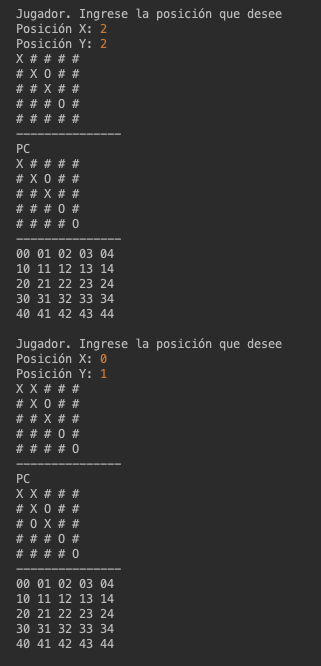
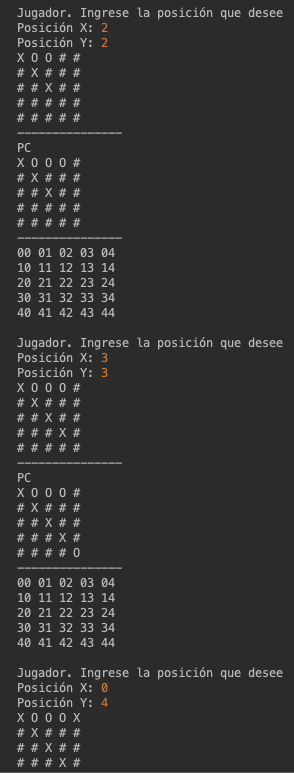
correccion

diff --git a/e1/index.html b/e1/index.html
@@ -12,7 +12,9 @@
     <div>
         <p>package ds2.e1;</p>
         
-        <p>import java.util.Scanner;</p>
+        <p>import java.util.Scanner;<br />
+            import java.util.regex.Matcher;<br />
+            import java.util.regex.Pattern;</p>
         
         <p>public class Gato5x5Metodos {</p>
         
@@ -154,36 +156,238 @@
             &nbsp; &nbsp; &nbsp; &nbsp; &nbsp; &nbsp; &nbsp; &nbsp; &nbsp; &nbsp; entero = true; // RETORNAR TRUE<br />
             &nbsp; &nbsp; &nbsp; &nbsp; &nbsp; &nbsp; &nbsp; &nbsp; }<br />
             &nbsp; &nbsp; &nbsp; &nbsp; &nbsp; &nbsp; } while (entero == false); // REPETIR EL CICLO SI LOS NUMEROS ESTAN FUERA
-            DE RANGO<br />
-            &nbsp; &nbsp; &nbsp; &nbsp; &nbsp; &nbsp; do {<br />
-            &nbsp; &nbsp; &nbsp; &nbsp; &nbsp; &nbsp; &nbsp; &nbsp; if (!&quot;#&quot;.equals(gato[x][y])) { // VERIFICAR SI LA
-            POSICION YA ESTA OCUPADA<br />
-            &nbsp; &nbsp; &nbsp; &nbsp; &nbsp; &nbsp; &nbsp; &nbsp; &nbsp; &nbsp; System.out.println(&quot;Posici&oacute;n
+            DE RANGO</p>
+        
+        <p>&nbsp; &nbsp; &nbsp; &nbsp; &nbsp; &nbsp; if (!&quot;#&quot;.equals(gato[x][y])) { // VERIFICAR SI LA POSICION YA
+            ESTA OCUPADA<br />
+            &nbsp; &nbsp; &nbsp; &nbsp; &nbsp; &nbsp; &nbsp; &nbsp; System.out.println(&quot;Posici&oacute;n
             inv&aacute;lida&quot;); // MENSAJE DE ERROR SI ESTA OCUPADA<br />
-            &nbsp; &nbsp; &nbsp; &nbsp; &nbsp; &nbsp; &nbsp; &nbsp; } else { // SI NO ESTA OCUPADA<br />
-            &nbsp; &nbsp; &nbsp; &nbsp; &nbsp; &nbsp; &nbsp; &nbsp; &nbsp; &nbsp; desocupado = true; // RETORNAR TRUE<br />
-            &nbsp; &nbsp; &nbsp; &nbsp; &nbsp; &nbsp; &nbsp; &nbsp; }<br />
-            &nbsp; &nbsp; &nbsp; &nbsp; &nbsp; &nbsp; } while (desocupado == false); // REPETIR EL CICLO MIENTRAS LA POSICION
-            ESTE OCUPADA<br />
+            &nbsp; &nbsp; &nbsp; &nbsp; &nbsp; &nbsp; &nbsp; &nbsp; desocupado = false;<br />
+            &nbsp; &nbsp; &nbsp; &nbsp; &nbsp; &nbsp; } else if (&quot;#&quot;.equals(gato[x][y])) { // SI NO ESTA OCUPADA<br />
+            &nbsp; &nbsp; &nbsp; &nbsp; &nbsp; &nbsp; &nbsp; &nbsp; desocupado = true; // RETORNAR TRUE<br />
+            &nbsp; &nbsp; &nbsp; &nbsp; &nbsp; &nbsp; }<br />
             &nbsp; &nbsp; &nbsp; &nbsp; } while (desocupado == false || entero == false); // REPETIR EL CICLO MIENTRAS ESTA
             OCUPADA O MIENTRAS LOS NUMEROS SEAN INVALIDOS<br />
             &nbsp; &nbsp; &nbsp; &nbsp; gato[x][y] = &quot;X&quot;; // ASIGNAR X A LA POSICION<br />
             &nbsp; &nbsp; }</p>
         
         <p>&nbsp; &nbsp; public static void pc(String gato[][]) {<br />
-            &nbsp; &nbsp; &nbsp; &nbsp; int x, y; // DECLARAR POSICIONES X Y<br />
-            &nbsp; &nbsp; &nbsp; &nbsp; do {<br />
-            &nbsp; &nbsp; &nbsp; &nbsp; &nbsp; &nbsp; x = (int) (Math.random() * 5); // ASIGNAR UN NUMERO ALEATORIO ENTERO 0-5
-            AL RENGLON<br />
-            &nbsp; &nbsp; &nbsp; &nbsp; &nbsp; &nbsp; y = (int) (Math.random() * 5); // ASIGNAR UN NUMERO ALEATORIO ENTERO 0-5 A
-            LA COLUMNA<br />
-            &nbsp; &nbsp; &nbsp; &nbsp; } while (!&quot;#&quot;.equals(gato[x][y])); // REPETIR EL CICLO MIENTRAS LA CASILLA
-            ESTE OCUPADA<br />
-            &nbsp; &nbsp; &nbsp; &nbsp; gato[x][y] = &quot;O&quot;; // ASIGNAR O A LA CASILLA<br />
-            &nbsp; &nbsp; &nbsp; &nbsp; System.out.println(&quot;PC&quot;); // IMPRIMIR QUE ES TURNO DE LA PC<br />
-            &nbsp; &nbsp; }</p>
+            &nbsp; &nbsp; &nbsp; &nbsp; String input = &quot;X*#X*&quot;; // REGEX<br />
+            &nbsp; &nbsp; &nbsp; &nbsp; String n = null; // INICIALIZAR VARIABLE N COMO COMPARADOR<br />
+            &nbsp; &nbsp; &nbsp; &nbsp; Pattern p = Pattern.compile(input); // PATRON DE LA REGEX<br />
+            &nbsp; &nbsp; &nbsp; &nbsp; boolean turno = false; // VARIABLE PARA SABER SI YA FUE TURNO DE LA PC<br />
+            &nbsp; &nbsp; &nbsp; &nbsp; for (int j = 0; j &lt; 12; j++) {// 12 FORMAS DE GANAR<br />
+            &nbsp; &nbsp; &nbsp; &nbsp; &nbsp; &nbsp; if (!turno) { // SI PC NO HA ASIGNADO CASILLA<br />
+            &nbsp; &nbsp; &nbsp; &nbsp; &nbsp; &nbsp; &nbsp; &nbsp; switch (j) {<br />
+            &nbsp; &nbsp; &nbsp; &nbsp; &nbsp; &nbsp; &nbsp; &nbsp; &nbsp; &nbsp; case 0 -&gt;<br />
+            &nbsp; &nbsp; &nbsp; &nbsp; &nbsp; &nbsp; &nbsp; &nbsp; &nbsp; &nbsp; &nbsp; &nbsp; n = gato[0][0] + gato[0][1] +
+            gato[0][2] + gato[0][3] + gato[0][4]; // PRIMER RENGLON<br />
+            &nbsp; &nbsp; &nbsp; &nbsp; &nbsp; &nbsp; &nbsp; &nbsp; &nbsp; &nbsp; case 1 -&gt;<br />
+            &nbsp; &nbsp; &nbsp; &nbsp; &nbsp; &nbsp; &nbsp; &nbsp; &nbsp; &nbsp; &nbsp; &nbsp; n = gato[1][0] + gato[1][1] +
+            gato[1][2] + gato[1][3] + gato[1][4]; // SEGUNDO RENGLON<br />
+            &nbsp; &nbsp; &nbsp; &nbsp; &nbsp; &nbsp; &nbsp; &nbsp; &nbsp; &nbsp; case 2 -&gt;<br />
+            &nbsp; &nbsp; &nbsp; &nbsp; &nbsp; &nbsp; &nbsp; &nbsp; &nbsp; &nbsp; &nbsp; &nbsp; n = gato[2][0] + gato[2][1] +
+            gato[2][2] + gato[2][3] + gato[2][4]; // TERCER RENGLON<br />
+            &nbsp; &nbsp; &nbsp; &nbsp; &nbsp; &nbsp; &nbsp; &nbsp; &nbsp; &nbsp; case 3 -&gt;<br />
+            &nbsp; &nbsp; &nbsp; &nbsp; &nbsp; &nbsp; &nbsp; &nbsp; &nbsp; &nbsp; &nbsp; &nbsp; n = gato[3][0] + gato[3][1] +
+            gato[3][2] + gato[3][3] + gato[3][4]; // CUARTO RENGLON<br />
+            &nbsp; &nbsp; &nbsp; &nbsp; &nbsp; &nbsp; &nbsp; &nbsp; &nbsp; &nbsp; case 4 -&gt;<br />
+            &nbsp; &nbsp; &nbsp; &nbsp; &nbsp; &nbsp; &nbsp; &nbsp; &nbsp; &nbsp; &nbsp; &nbsp; n = gato[4][0] + gato[4][1] +
+            gato[4][2] + gato[4][3] + gato[4][4]; // QUINTO RENGLON<br />
+            &nbsp; &nbsp; &nbsp; &nbsp; &nbsp; &nbsp; &nbsp; &nbsp; &nbsp; &nbsp; case 5 -&gt;<br />
+            &nbsp; &nbsp; &nbsp; &nbsp; &nbsp; &nbsp; &nbsp; &nbsp; &nbsp; &nbsp; &nbsp; &nbsp; n = gato[0][0] + gato[1][0] +
+            gato[2][0] + gato[3][0] + gato[4][0]; // PRIMER COLUMNA<br />
+            &nbsp; &nbsp; &nbsp; &nbsp; &nbsp; &nbsp; &nbsp; &nbsp; &nbsp; &nbsp; case 6 -&gt;<br />
+            &nbsp; &nbsp; &nbsp; &nbsp; &nbsp; &nbsp; &nbsp; &nbsp; &nbsp; &nbsp; &nbsp; &nbsp; n = gato[0][1] + gato[1][1] +
+            gato[2][1] + gato[3][1] + gato[4][1]; // SEGUNDA COLUMNA<br />
+            &nbsp; &nbsp; &nbsp; &nbsp; &nbsp; &nbsp; &nbsp; &nbsp; &nbsp; &nbsp; case 7 -&gt;<br />
+            &nbsp; &nbsp; &nbsp; &nbsp; &nbsp; &nbsp; &nbsp; &nbsp; &nbsp; &nbsp; &nbsp; &nbsp; n = gato[0][2] + gato[1][2] +
+            gato[2][2] + gato[3][2] + gato[4][2]; // TERCERA COLUMNA<br />
+            &nbsp; &nbsp; &nbsp; &nbsp; &nbsp; &nbsp; &nbsp; &nbsp; &nbsp; &nbsp; case 8 -&gt;<br />
+            &nbsp; &nbsp; &nbsp; &nbsp; &nbsp; &nbsp; &nbsp; &nbsp; &nbsp; &nbsp; &nbsp; &nbsp; n = gato[0][3] + gato[1][3] +
+            gato[2][3] + gato[3][3] + gato[4][3]; // CUARTA COLUMNA<br />
+            &nbsp; &nbsp; &nbsp; &nbsp; &nbsp; &nbsp; &nbsp; &nbsp; &nbsp; &nbsp; case 9 -&gt;<br />
+            &nbsp; &nbsp; &nbsp; &nbsp; &nbsp; &nbsp; &nbsp; &nbsp; &nbsp; &nbsp; &nbsp; &nbsp; n = gato[0][4] + gato[1][4] +
+            gato[2][4] + gato[3][4] + gato[4][4]; // QUINTA COLUMNA<br />
+            &nbsp; &nbsp; &nbsp; &nbsp; &nbsp; &nbsp; &nbsp; &nbsp; &nbsp; &nbsp; case 10 -&gt;<br />
+            &nbsp; &nbsp; &nbsp; &nbsp; &nbsp; &nbsp; &nbsp; &nbsp; &nbsp; &nbsp; &nbsp; &nbsp; n = gato[0][0] + gato[1][1] +
+            gato[2][2] + gato[3][3] + gato[4][4]; // DIAGONAL<br />
+            &nbsp; &nbsp; &nbsp; &nbsp; &nbsp; &nbsp; &nbsp; &nbsp; &nbsp; &nbsp; case 11 -&gt;<br />
+            &nbsp; &nbsp; &nbsp; &nbsp; &nbsp; &nbsp; &nbsp; &nbsp; &nbsp; &nbsp; &nbsp; &nbsp; n = gato[4][0] + gato[3][1] +
+            gato[2][2] + gato[1][3] + gato[0][4]; // DIAGONAL<br />
+            &nbsp; &nbsp; &nbsp; &nbsp; &nbsp; &nbsp; &nbsp; &nbsp; &nbsp; &nbsp; default -&gt; { // DEFAULT BREAK<br />
+            &nbsp; &nbsp; &nbsp; &nbsp; &nbsp; &nbsp; &nbsp; &nbsp; &nbsp; &nbsp; }<br />
+            &nbsp; &nbsp; &nbsp; &nbsp; &nbsp; &nbsp; &nbsp; &nbsp; }<br />
+            &nbsp; &nbsp; &nbsp; &nbsp; &nbsp; &nbsp; &nbsp; &nbsp; Matcher m = p.matcher(n); // ENCUENTRA COINCIDENCIA CON
+            n<br />
+            &nbsp; &nbsp; &nbsp; &nbsp; &nbsp; &nbsp; &nbsp; &nbsp; if (m.matches()) { // SI EXISTE COINCIDENCIA&nbsp;<br />
+            &nbsp; &nbsp; &nbsp; &nbsp; &nbsp; &nbsp; &nbsp; &nbsp; &nbsp; &nbsp; turno = m.matches(); // ASIGNAR BOOLEAN DE LA
+            COINCIDENCIA AL TURNO<br />
+            &nbsp; &nbsp; &nbsp; &nbsp; &nbsp; &nbsp; &nbsp; &nbsp; &nbsp; &nbsp; switch (j) {<br />
+            &nbsp; &nbsp; &nbsp; &nbsp; &nbsp; &nbsp; &nbsp; &nbsp; &nbsp; &nbsp; &nbsp; &nbsp; case 0:<br />
+            &nbsp; &nbsp; &nbsp; &nbsp; &nbsp; &nbsp; &nbsp; &nbsp; &nbsp; &nbsp; &nbsp; &nbsp; &nbsp; &nbsp; for (int i = 0; i
+            &lt; 5; i++) { // PRIMER RENGLON PC ASIGNA A CASILLA VACIA<br />
+            &nbsp; &nbsp; &nbsp; &nbsp; &nbsp; &nbsp; &nbsp; &nbsp; &nbsp; &nbsp; &nbsp; &nbsp; &nbsp; &nbsp; &nbsp; &nbsp; if
+            (&quot;#&quot;.equals(gato[0][i])) {<br />
+            &nbsp; &nbsp; &nbsp; &nbsp; &nbsp; &nbsp; &nbsp; &nbsp; &nbsp; &nbsp; &nbsp; &nbsp; &nbsp; &nbsp; &nbsp; &nbsp;
+            &nbsp; &nbsp; gato[0][i] = &quot;O&quot;;<br />
+            &nbsp; &nbsp; &nbsp; &nbsp; &nbsp; &nbsp; &nbsp; &nbsp; &nbsp; &nbsp; &nbsp; &nbsp; &nbsp; &nbsp; &nbsp; &nbsp;
+            }<br />
+            &nbsp; &nbsp; &nbsp; &nbsp; &nbsp; &nbsp; &nbsp; &nbsp; &nbsp; &nbsp; &nbsp; &nbsp; &nbsp; &nbsp; }<br />
+            &nbsp; &nbsp; &nbsp; &nbsp; &nbsp; &nbsp; &nbsp; &nbsp; &nbsp; &nbsp; &nbsp; &nbsp; &nbsp; &nbsp; break;<br />
+            &nbsp; &nbsp; &nbsp; &nbsp; &nbsp; &nbsp; &nbsp; &nbsp; &nbsp; &nbsp; &nbsp; &nbsp; case 1:<br />
+            &nbsp; &nbsp; &nbsp; &nbsp; &nbsp; &nbsp; &nbsp; &nbsp; &nbsp; &nbsp; &nbsp; &nbsp; &nbsp; &nbsp; for (int i = 0; i
+            &lt; 5; i++) { // SEGUNDO RENGLON PC ASIGNA A CASILLA VACIA<br />
+            &nbsp; &nbsp; &nbsp; &nbsp; &nbsp; &nbsp; &nbsp; &nbsp; &nbsp; &nbsp; &nbsp; &nbsp; &nbsp; &nbsp; &nbsp; &nbsp; if
+            (&quot;#&quot;.equals(gato[1][i])) {<br />
+            &nbsp; &nbsp; &nbsp; &nbsp; &nbsp; &nbsp; &nbsp; &nbsp; &nbsp; &nbsp; &nbsp; &nbsp; &nbsp; &nbsp; &nbsp; &nbsp;
+            &nbsp; &nbsp; gato[1][i] = &quot;O&quot;;<br />
+            &nbsp; &nbsp; &nbsp; &nbsp; &nbsp; &nbsp; &nbsp; &nbsp; &nbsp; &nbsp; &nbsp; &nbsp; &nbsp; &nbsp; &nbsp; &nbsp;
+            }<br />
+            &nbsp; &nbsp; &nbsp; &nbsp; &nbsp; &nbsp; &nbsp; &nbsp; &nbsp; &nbsp; &nbsp; &nbsp; &nbsp; &nbsp; }<br />
+            &nbsp; &nbsp; &nbsp; &nbsp; &nbsp; &nbsp; &nbsp; &nbsp; &nbsp; &nbsp; &nbsp; &nbsp; &nbsp; &nbsp; break;<br />
+            &nbsp; &nbsp; &nbsp; &nbsp; &nbsp; &nbsp; &nbsp; &nbsp; &nbsp; &nbsp; &nbsp; &nbsp; case 2:<br />
+            &nbsp; &nbsp; &nbsp; &nbsp; &nbsp; &nbsp; &nbsp; &nbsp; &nbsp; &nbsp; &nbsp; &nbsp; &nbsp; &nbsp; for (int i = 0; i
+            &lt; 5; i++) { // TERCER RENGLON PC ASIGNA A CASILLA VACIA<br />
+            &nbsp; &nbsp; &nbsp; &nbsp; &nbsp; &nbsp; &nbsp; &nbsp; &nbsp; &nbsp; &nbsp; &nbsp; &nbsp; &nbsp; &nbsp; &nbsp; if
+            (&quot;#&quot;.equals(gato[2][i])) {<br />
+            &nbsp; &nbsp; &nbsp; &nbsp; &nbsp; &nbsp; &nbsp; &nbsp; &nbsp; &nbsp; &nbsp; &nbsp; &nbsp; &nbsp; &nbsp; &nbsp;
+            &nbsp; &nbsp; gato[2][i] = &quot;O&quot;;<br />
+            &nbsp; &nbsp; &nbsp; &nbsp; &nbsp; &nbsp; &nbsp; &nbsp; &nbsp; &nbsp; &nbsp; &nbsp; &nbsp; &nbsp; &nbsp; &nbsp;
+            }<br />
+            &nbsp; &nbsp; &nbsp; &nbsp; &nbsp; &nbsp; &nbsp; &nbsp; &nbsp; &nbsp; &nbsp; &nbsp; &nbsp; &nbsp; }<br />
+            &nbsp; &nbsp; &nbsp; &nbsp; &nbsp; &nbsp; &nbsp; &nbsp; &nbsp; &nbsp; &nbsp; &nbsp; &nbsp; &nbsp; break;<br />
+            &nbsp; &nbsp; &nbsp; &nbsp; &nbsp; &nbsp; &nbsp; &nbsp; &nbsp; &nbsp; &nbsp; &nbsp; case 3:<br />
+            &nbsp; &nbsp; &nbsp; &nbsp; &nbsp; &nbsp; &nbsp; &nbsp; &nbsp; &nbsp; &nbsp; &nbsp; &nbsp; &nbsp; for (int i = 0; i
+            &lt; 5; i++) { // CUARTO RENGLON PC ASIGNA A CASILLA VACIA<br />
+            &nbsp; &nbsp; &nbsp; &nbsp; &nbsp; &nbsp; &nbsp; &nbsp; &nbsp; &nbsp; &nbsp; &nbsp; &nbsp; &nbsp; &nbsp; &nbsp; if
+            (&quot;#&quot;.equals(gato[3][i])) {<br />
+            &nbsp; &nbsp; &nbsp; &nbsp; &nbsp; &nbsp; &nbsp; &nbsp; &nbsp; &nbsp; &nbsp; &nbsp; &nbsp; &nbsp; &nbsp; &nbsp;
+            &nbsp; &nbsp; gato[3][i] = &quot;O&quot;;<br />
+            &nbsp; &nbsp; &nbsp; &nbsp; &nbsp; &nbsp; &nbsp; &nbsp; &nbsp; &nbsp; &nbsp; &nbsp; &nbsp; &nbsp; &nbsp; &nbsp;
+            }<br />
+            &nbsp; &nbsp; &nbsp; &nbsp; &nbsp; &nbsp; &nbsp; &nbsp; &nbsp; &nbsp; &nbsp; &nbsp; &nbsp; &nbsp; }<br />
+            &nbsp; &nbsp; &nbsp; &nbsp; &nbsp; &nbsp; &nbsp; &nbsp; &nbsp; &nbsp; &nbsp; &nbsp; &nbsp; &nbsp; break;<br />
+            &nbsp; &nbsp; &nbsp; &nbsp; &nbsp; &nbsp; &nbsp; &nbsp; &nbsp; &nbsp; &nbsp; &nbsp; case 4:<br />
+            &nbsp; &nbsp; &nbsp; &nbsp; &nbsp; &nbsp; &nbsp; &nbsp; &nbsp; &nbsp; &nbsp; &nbsp; &nbsp; &nbsp; for (int i = 0; i
+            &lt; 5; i++) { // QUINTO RENGLON PC ASIGNA A CASILLA VACIA<br />
+            &nbsp; &nbsp; &nbsp; &nbsp; &nbsp; &nbsp; &nbsp; &nbsp; &nbsp; &nbsp; &nbsp; &nbsp; &nbsp; &nbsp; &nbsp; &nbsp; if
+            (&quot;#&quot;.equals(gato[4][i])) {<br />
+            &nbsp; &nbsp; &nbsp; &nbsp; &nbsp; &nbsp; &nbsp; &nbsp; &nbsp; &nbsp; &nbsp; &nbsp; &nbsp; &nbsp; &nbsp; &nbsp;
+            &nbsp; &nbsp; gato[4][i] = &quot;O&quot;;<br />
+            &nbsp; &nbsp; &nbsp; &nbsp; &nbsp; &nbsp; &nbsp; &nbsp; &nbsp; &nbsp; &nbsp; &nbsp; &nbsp; &nbsp; &nbsp; &nbsp;
+            }<br />
+            &nbsp; &nbsp; &nbsp; &nbsp; &nbsp; &nbsp; &nbsp; &nbsp; &nbsp; &nbsp; &nbsp; &nbsp; &nbsp; &nbsp; }<br />
+            &nbsp; &nbsp; &nbsp; &nbsp; &nbsp; &nbsp; &nbsp; &nbsp; &nbsp; &nbsp; &nbsp; &nbsp; &nbsp; &nbsp; break;<br />
+            &nbsp; &nbsp; &nbsp; &nbsp; &nbsp; &nbsp; &nbsp; &nbsp; &nbsp; &nbsp; &nbsp; &nbsp; case 5:<br />
+            &nbsp; &nbsp; &nbsp; &nbsp; &nbsp; &nbsp; &nbsp; &nbsp; &nbsp; &nbsp; &nbsp; &nbsp; &nbsp; &nbsp; for (int i = 0; i
+            &lt; 5; i++) { // PRIMERA COLUMNA PC ASIGNA A CASILLA VACIA<br />
+            &nbsp; &nbsp; &nbsp; &nbsp; &nbsp; &nbsp; &nbsp; &nbsp; &nbsp; &nbsp; &nbsp; &nbsp; &nbsp; &nbsp; &nbsp; &nbsp; if
+            (&quot;#&quot;.equals(gato[i][0])) {<br />
+            &nbsp; &nbsp; &nbsp; &nbsp; &nbsp; &nbsp; &nbsp; &nbsp; &nbsp; &nbsp; &nbsp; &nbsp; &nbsp; &nbsp; &nbsp; &nbsp;
+            &nbsp; &nbsp; gato[i][0] = &quot;O&quot;;<br />
+            &nbsp; &nbsp; &nbsp; &nbsp; &nbsp; &nbsp; &nbsp; &nbsp; &nbsp; &nbsp; &nbsp; &nbsp; &nbsp; &nbsp; &nbsp; &nbsp;
+            }<br />
+            &nbsp; &nbsp; &nbsp; &nbsp; &nbsp; &nbsp; &nbsp; &nbsp; &nbsp; &nbsp; &nbsp; &nbsp; &nbsp; &nbsp; }<br />
+            &nbsp; &nbsp; &nbsp; &nbsp; &nbsp; &nbsp; &nbsp; &nbsp; &nbsp; &nbsp; &nbsp; &nbsp; &nbsp; &nbsp; break;<br />
+            &nbsp; &nbsp; &nbsp; &nbsp; &nbsp; &nbsp; &nbsp; &nbsp; &nbsp; &nbsp; &nbsp; &nbsp; case 6:<br />
+            &nbsp; &nbsp; &nbsp; &nbsp; &nbsp; &nbsp; &nbsp; &nbsp; &nbsp; &nbsp; &nbsp; &nbsp; &nbsp; &nbsp; for (int i = 0; i
+            &lt; 5; i++) { // SEGUNDA COLUMNA PC ASIGNA A CASILLA VACIA<br />
+            &nbsp; &nbsp; &nbsp; &nbsp; &nbsp; &nbsp; &nbsp; &nbsp; &nbsp; &nbsp; &nbsp; &nbsp; &nbsp; &nbsp; &nbsp; &nbsp; if
+            (&quot;#&quot;.equals(gato[i][1])) {<br />
+            &nbsp; &nbsp; &nbsp; &nbsp; &nbsp; &nbsp; &nbsp; &nbsp; &nbsp; &nbsp; &nbsp; &nbsp; &nbsp; &nbsp; &nbsp; &nbsp;
+            &nbsp; &nbsp; gato[i][1] = &quot;O&quot;;<br />
+            &nbsp; &nbsp; &nbsp; &nbsp; &nbsp; &nbsp; &nbsp; &nbsp; &nbsp; &nbsp; &nbsp; &nbsp; &nbsp; &nbsp; &nbsp; &nbsp;
+            }<br />
+            &nbsp; &nbsp; &nbsp; &nbsp; &nbsp; &nbsp; &nbsp; &nbsp; &nbsp; &nbsp; &nbsp; &nbsp; &nbsp; &nbsp; }<br />
+            &nbsp; &nbsp; &nbsp; &nbsp; &nbsp; &nbsp; &nbsp; &nbsp; &nbsp; &nbsp; &nbsp; &nbsp; &nbsp; &nbsp; break;<br />
+            &nbsp; &nbsp; &nbsp; &nbsp; &nbsp; &nbsp; &nbsp; &nbsp; &nbsp; &nbsp; &nbsp; &nbsp; case 7:<br />
+            &nbsp; &nbsp; &nbsp; &nbsp; &nbsp; &nbsp; &nbsp; &nbsp; &nbsp; &nbsp; &nbsp; &nbsp; &nbsp; &nbsp; for (int i = 0; i
+            &lt; 5; i++) { // TERCERA COLUMNA PC ASIGNA A CASILLA VACIA<br />
+            &nbsp; &nbsp; &nbsp; &nbsp; &nbsp; &nbsp; &nbsp; &nbsp; &nbsp; &nbsp; &nbsp; &nbsp; &nbsp; &nbsp; &nbsp; &nbsp; if
+            (&quot;#&quot;.equals(gato[i][2])) {<br />
+            &nbsp; &nbsp; &nbsp; &nbsp; &nbsp; &nbsp; &nbsp; &nbsp; &nbsp; &nbsp; &nbsp; &nbsp; &nbsp; &nbsp; &nbsp; &nbsp;
+            &nbsp; &nbsp; gato[i][2] = &quot;O&quot;;<br />
+            &nbsp; &nbsp; &nbsp; &nbsp; &nbsp; &nbsp; &nbsp; &nbsp; &nbsp; &nbsp; &nbsp; &nbsp; &nbsp; &nbsp; &nbsp; &nbsp;
+            }<br />
+            &nbsp; &nbsp; &nbsp; &nbsp; &nbsp; &nbsp; &nbsp; &nbsp; &nbsp; &nbsp; &nbsp; &nbsp; &nbsp; &nbsp; }<br />
+            &nbsp; &nbsp; &nbsp; &nbsp; &nbsp; &nbsp; &nbsp; &nbsp; &nbsp; &nbsp; &nbsp; &nbsp; &nbsp; &nbsp; break;<br />
+            &nbsp; &nbsp; &nbsp; &nbsp; &nbsp; &nbsp; &nbsp; &nbsp; &nbsp; &nbsp; &nbsp; &nbsp; case 8:<br />
+            &nbsp; &nbsp; &nbsp; &nbsp; &nbsp; &nbsp; &nbsp; &nbsp; &nbsp; &nbsp; &nbsp; &nbsp; &nbsp; &nbsp; for (int i = 0; i
+            &lt; 5; i++) { // CUARTA COLUMNA PC ASIGNA A CASILLA VACIA<br />
+            &nbsp; &nbsp; &nbsp; &nbsp; &nbsp; &nbsp; &nbsp; &nbsp; &nbsp; &nbsp; &nbsp; &nbsp; &nbsp; &nbsp; &nbsp; &nbsp; if
+            (&quot;#&quot;.equals(gato[i][3])) {<br />
+            &nbsp; &nbsp; &nbsp; &nbsp; &nbsp; &nbsp; &nbsp; &nbsp; &nbsp; &nbsp; &nbsp; &nbsp; &nbsp; &nbsp; &nbsp; &nbsp;
+            &nbsp; &nbsp; gato[i][3] = &quot;O&quot;;<br />
+            &nbsp; &nbsp; &nbsp; &nbsp; &nbsp; &nbsp; &nbsp; &nbsp; &nbsp; &nbsp; &nbsp; &nbsp; &nbsp; &nbsp; &nbsp; &nbsp;
+            }<br />
+            &nbsp; &nbsp; &nbsp; &nbsp; &nbsp; &nbsp; &nbsp; &nbsp; &nbsp; &nbsp; &nbsp; &nbsp; &nbsp; &nbsp; }<br />
+            &nbsp; &nbsp; &nbsp; &nbsp; &nbsp; &nbsp; &nbsp; &nbsp; &nbsp; &nbsp; &nbsp; &nbsp; &nbsp; &nbsp; break;<br />
+            &nbsp; &nbsp; &nbsp; &nbsp; &nbsp; &nbsp; &nbsp; &nbsp; &nbsp; &nbsp; &nbsp; &nbsp; case 9:<br />
+            &nbsp; &nbsp; &nbsp; &nbsp; &nbsp; &nbsp; &nbsp; &nbsp; &nbsp; &nbsp; &nbsp; &nbsp; &nbsp; &nbsp; for (int i = 0; i
+            &lt; 5; i++) { // QUINTA COLUMNA PC ASIGNA A CASILLA VACIA<br />
+            &nbsp; &nbsp; &nbsp; &nbsp; &nbsp; &nbsp; &nbsp; &nbsp; &nbsp; &nbsp; &nbsp; &nbsp; &nbsp; &nbsp; &nbsp; &nbsp; if
+            (&quot;#&quot;.equals(gato[i][4])) {<br />
+            &nbsp; &nbsp; &nbsp; &nbsp; &nbsp; &nbsp; &nbsp; &nbsp; &nbsp; &nbsp; &nbsp; &nbsp; &nbsp; &nbsp; &nbsp; &nbsp;
+            &nbsp; &nbsp; gato[i][4] = &quot;O&quot;;<br />
+            &nbsp; &nbsp; &nbsp; &nbsp; &nbsp; &nbsp; &nbsp; &nbsp; &nbsp; &nbsp; &nbsp; &nbsp; &nbsp; &nbsp; &nbsp; &nbsp;
+            }<br />
+            &nbsp; &nbsp; &nbsp; &nbsp; &nbsp; &nbsp; &nbsp; &nbsp; &nbsp; &nbsp; &nbsp; &nbsp; &nbsp; &nbsp; }<br />
+            &nbsp; &nbsp; &nbsp; &nbsp; &nbsp; &nbsp; &nbsp; &nbsp; &nbsp; &nbsp; &nbsp; &nbsp; &nbsp; &nbsp; break;<br />
+            &nbsp; &nbsp; &nbsp; &nbsp; &nbsp; &nbsp; &nbsp; &nbsp; &nbsp; &nbsp; &nbsp; &nbsp; case 10:<br />
+            &nbsp; &nbsp; &nbsp; &nbsp; &nbsp; &nbsp; &nbsp; &nbsp; &nbsp; &nbsp; &nbsp; &nbsp; &nbsp; &nbsp; for (int i = 0; i
+            &lt; 5; i++) { // DIAGONAL PC ASIGNA A CASILLA VACIA<br />
+            &nbsp; &nbsp; &nbsp; &nbsp; &nbsp; &nbsp; &nbsp; &nbsp; &nbsp; &nbsp; &nbsp; &nbsp; &nbsp; &nbsp; &nbsp; &nbsp; if
+            (&quot;#&quot;.equals(gato[i][i])) {<br />
+            &nbsp; &nbsp; &nbsp; &nbsp; &nbsp; &nbsp; &nbsp; &nbsp; &nbsp; &nbsp; &nbsp; &nbsp; &nbsp; &nbsp; &nbsp; &nbsp;
+            &nbsp; &nbsp; gato[i][i] = &quot;O&quot;;<br />
+            &nbsp; &nbsp; &nbsp; &nbsp; &nbsp; &nbsp; &nbsp; &nbsp; &nbsp; &nbsp; &nbsp; &nbsp; &nbsp; &nbsp; &nbsp; &nbsp;
+            }<br />
+            &nbsp; &nbsp; &nbsp; &nbsp; &nbsp; &nbsp; &nbsp; &nbsp; &nbsp; &nbsp; &nbsp; &nbsp; &nbsp; &nbsp; }<br />
+            &nbsp; &nbsp; &nbsp; &nbsp; &nbsp; &nbsp; &nbsp; &nbsp; &nbsp; &nbsp; &nbsp; &nbsp; &nbsp; &nbsp; break;<br />
+            &nbsp; &nbsp; &nbsp; &nbsp; &nbsp; &nbsp; &nbsp; &nbsp; &nbsp; &nbsp; &nbsp; &nbsp; case 11:<br />
+            &nbsp; &nbsp; &nbsp; &nbsp; &nbsp; &nbsp; &nbsp; &nbsp; &nbsp; &nbsp; &nbsp; &nbsp; &nbsp; &nbsp; int k = 4;<br />
+            &nbsp; &nbsp; &nbsp; &nbsp; &nbsp; &nbsp; &nbsp; &nbsp; &nbsp; &nbsp; &nbsp; &nbsp; &nbsp; &nbsp; for (int i = 0; i
+            &lt; 5; i++) { // DIAGONAL PC ASIGNA A CASILLA VACIA<br />
+            &nbsp; &nbsp; &nbsp; &nbsp; &nbsp; &nbsp; &nbsp; &nbsp; &nbsp; &nbsp; &nbsp; &nbsp; &nbsp; &nbsp; &nbsp; &nbsp; if
+            (&quot;#&quot;.equals(gato[k][i])) {<br />
+            &nbsp; &nbsp; &nbsp; &nbsp; &nbsp; &nbsp; &nbsp; &nbsp; &nbsp; &nbsp; &nbsp; &nbsp; &nbsp; &nbsp; &nbsp; &nbsp;
+            &nbsp; &nbsp; gato[k][i] = &quot;O&quot;;<br />
+            &nbsp; &nbsp; &nbsp; &nbsp; &nbsp; &nbsp; &nbsp; &nbsp; &nbsp; &nbsp; &nbsp; &nbsp; &nbsp; &nbsp; &nbsp; &nbsp;
+            }<br />
+            &nbsp; &nbsp; &nbsp; &nbsp; &nbsp; &nbsp; &nbsp; &nbsp; &nbsp; &nbsp; &nbsp; &nbsp; &nbsp; &nbsp; &nbsp; &nbsp;
+            k--;<br />
+            &nbsp; &nbsp; &nbsp; &nbsp; &nbsp; &nbsp; &nbsp; &nbsp; &nbsp; &nbsp; &nbsp; &nbsp; &nbsp; &nbsp; }</p>
         
-        <p>}<br />
+        <p>&nbsp; &nbsp; &nbsp; &nbsp; &nbsp; &nbsp; &nbsp; &nbsp; &nbsp; &nbsp; &nbsp; &nbsp; &nbsp; &nbsp; break;<br />
+            &nbsp; &nbsp; &nbsp; &nbsp; &nbsp; &nbsp; &nbsp; &nbsp; &nbsp; &nbsp; &nbsp; &nbsp; default:<br />
+            &nbsp; &nbsp; &nbsp; &nbsp; &nbsp; &nbsp; &nbsp; &nbsp; &nbsp; &nbsp; &nbsp; &nbsp; &nbsp; &nbsp; break;<br />
+            &nbsp; &nbsp; &nbsp; &nbsp; &nbsp; &nbsp; &nbsp; &nbsp; &nbsp; &nbsp; }<br />
+            &nbsp; &nbsp; &nbsp; &nbsp; &nbsp; &nbsp; &nbsp; &nbsp; }<br />
+            &nbsp; &nbsp; &nbsp; &nbsp; &nbsp; &nbsp; }<br />
+            &nbsp; &nbsp; &nbsp; &nbsp; }</p>
+        
+        <p>&nbsp; &nbsp; &nbsp; &nbsp; if (!turno) { // SI PC NO HA ASIGNADO CASILLA<br />
+            &nbsp; &nbsp; &nbsp; &nbsp; &nbsp; &nbsp; for (int i = 0; i &lt; 5; i++) {<br />
+            &nbsp; &nbsp; &nbsp; &nbsp; &nbsp; &nbsp; &nbsp; &nbsp; int j;<br />
+            &nbsp; &nbsp; &nbsp; &nbsp; &nbsp; &nbsp; &nbsp; &nbsp; for (j = 0; j &lt; 5; j++) {<br />
+            &nbsp; &nbsp; &nbsp; &nbsp; &nbsp; &nbsp; &nbsp; &nbsp; &nbsp; &nbsp; if (&quot;#&quot;.equals(gato[i][j])) {<br />
+            &nbsp; &nbsp; &nbsp; &nbsp; &nbsp; &nbsp; &nbsp; &nbsp; &nbsp; &nbsp; &nbsp; &nbsp; gato[i][j] = &quot;O&quot;; //
+            ASIGNA &quot;O&quot; A LA PRIMER CASILLA VACIA<br />
+            &nbsp; &nbsp; &nbsp; &nbsp; &nbsp; &nbsp; &nbsp; &nbsp; &nbsp; &nbsp; &nbsp; &nbsp; break;<br />
+            &nbsp; &nbsp; &nbsp; &nbsp; &nbsp; &nbsp; &nbsp; &nbsp; &nbsp; &nbsp; }<br />
+            &nbsp; &nbsp; &nbsp; &nbsp; &nbsp; &nbsp; &nbsp; &nbsp; }<br />
+            &nbsp; &nbsp; &nbsp; &nbsp; &nbsp; &nbsp; &nbsp; &nbsp; if (j &lt; 5) {<br />
+            &nbsp; &nbsp; &nbsp; &nbsp; &nbsp; &nbsp; &nbsp; &nbsp; &nbsp; &nbsp; if (&quot;O&quot;.equals(gato[i][j])) { // SI
+            YA ASIGNO A LA CASILLA SALIR DEL LOOP<br />
+            &nbsp; &nbsp; &nbsp; &nbsp; &nbsp; &nbsp; &nbsp; &nbsp; &nbsp; &nbsp; &nbsp; &nbsp; break;<br />
+            &nbsp; &nbsp; &nbsp; &nbsp; &nbsp; &nbsp; &nbsp; &nbsp; &nbsp; &nbsp; }<br />
+            &nbsp; &nbsp; &nbsp; &nbsp; &nbsp; &nbsp; &nbsp; &nbsp; }<br />
+            &nbsp; &nbsp; &nbsp; &nbsp; &nbsp; &nbsp; }<br />
+            &nbsp; &nbsp; &nbsp; &nbsp; }<br />
+            &nbsp; &nbsp; &nbsp; &nbsp; System.out.println(&quot;PC&quot;); // IMPRIMIR QUE ES TURNO DE LA PC<br />
+            &nbsp; &nbsp; }<br />
+            }<br />
             &nbsp;</p>
 
     </div>
@@ -193,5 +397,7 @@
     <img src="./img3.png" alt="">
     <img src="./img4.png" alt="">
     <img src="./img5.png" alt="">
+    <img src="./img6.png" alt="">
+    <img src="./img7.png" alt="">
 </body>
 </html>
